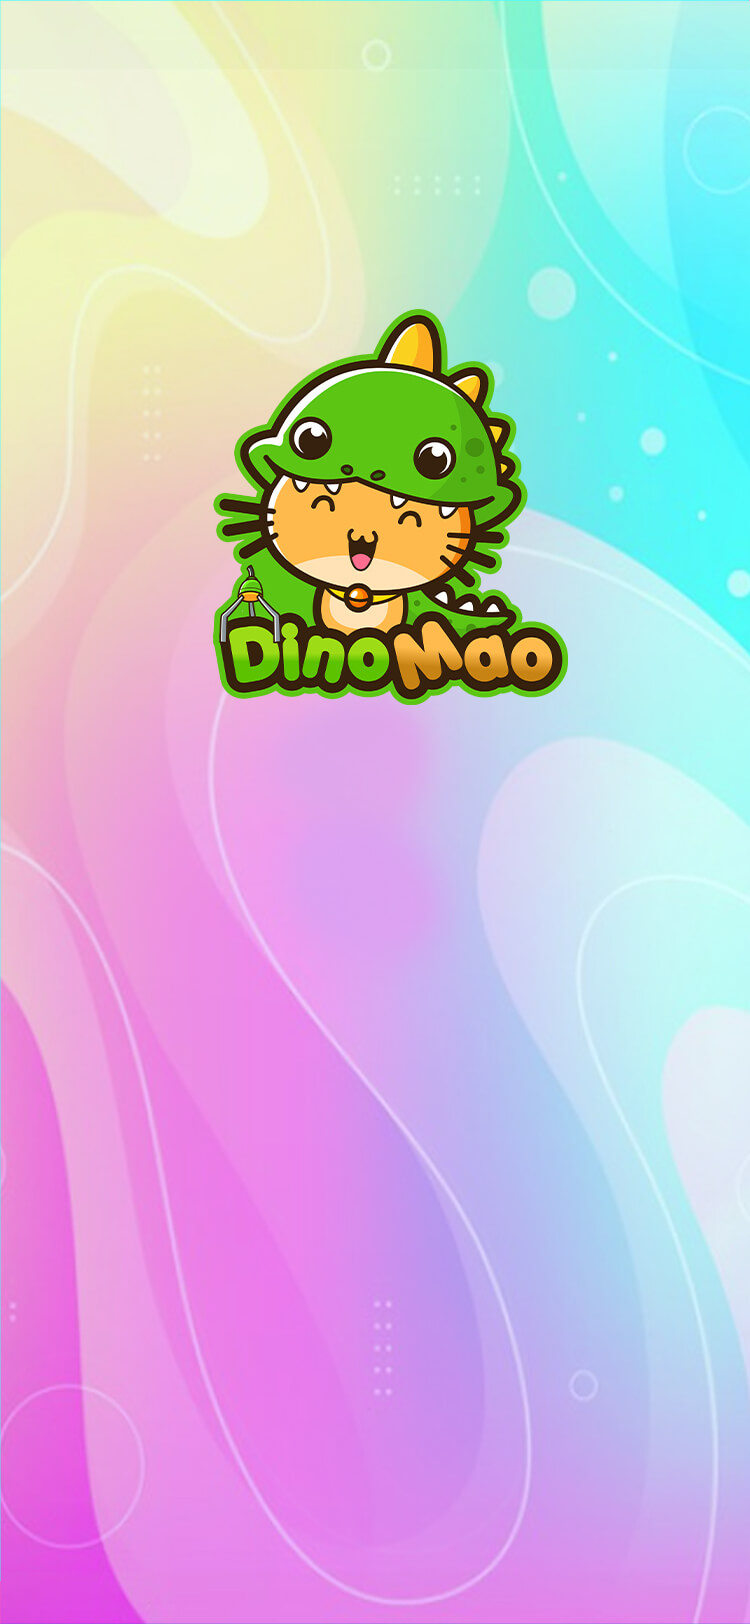
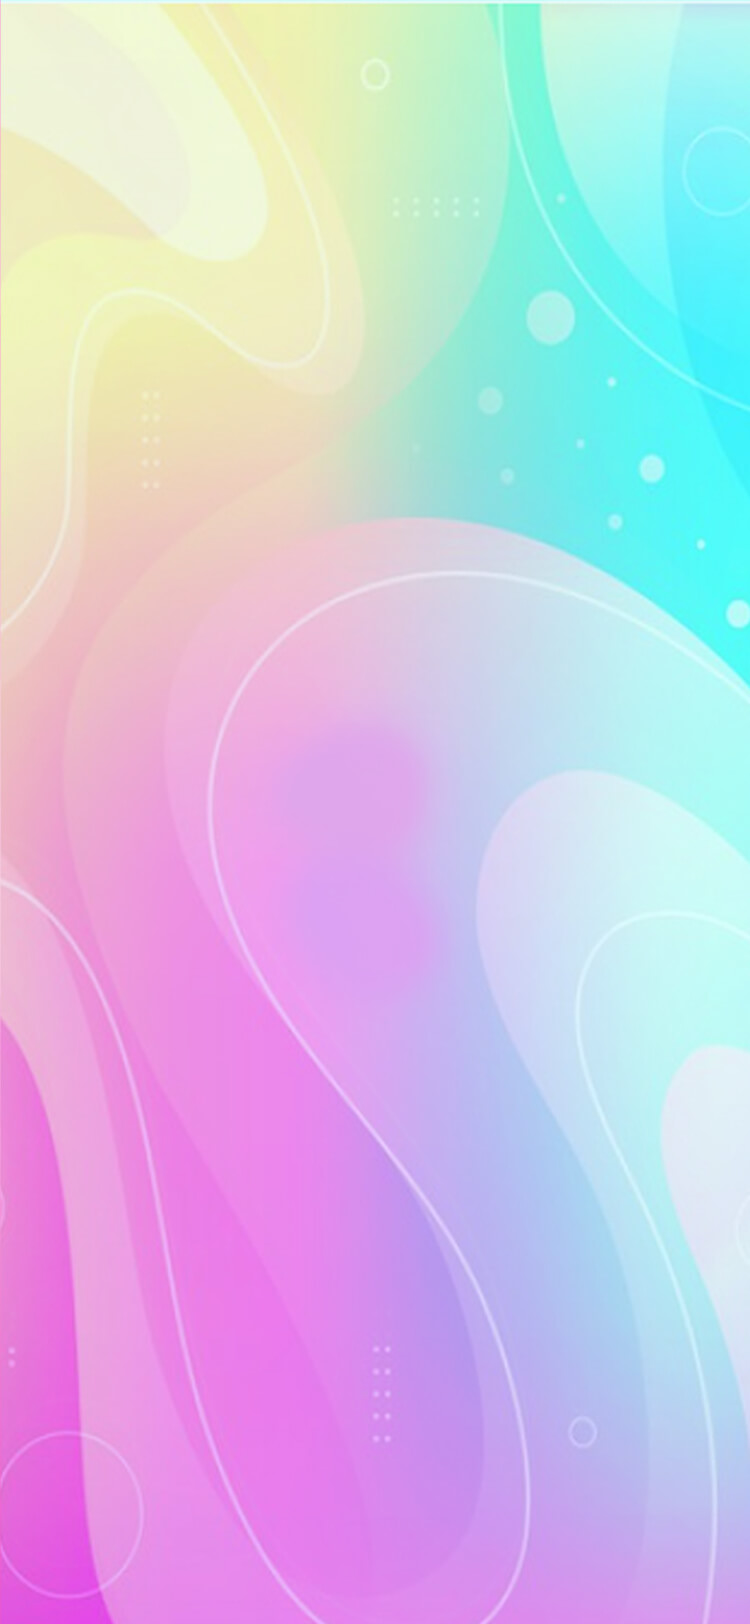
loading ui

diff --git a/src/siene/loading-and-po/loading-layer/loading-and-po.component.css b/src/siene/loading-and-po/loading-layer/loading-and-po.component.css
@@ -20,7 +20,9 @@
 .loadingPicture{
   position: absolute;
   left: 50%;
-	top: 60%;
-  margin-left: -55px;
-  margin-top: -55px;
+  top: 50%;
+  width: 150px;
+  height: 166px;
+  margin-left: -75px;
+  margin-top: -83px;
 }
